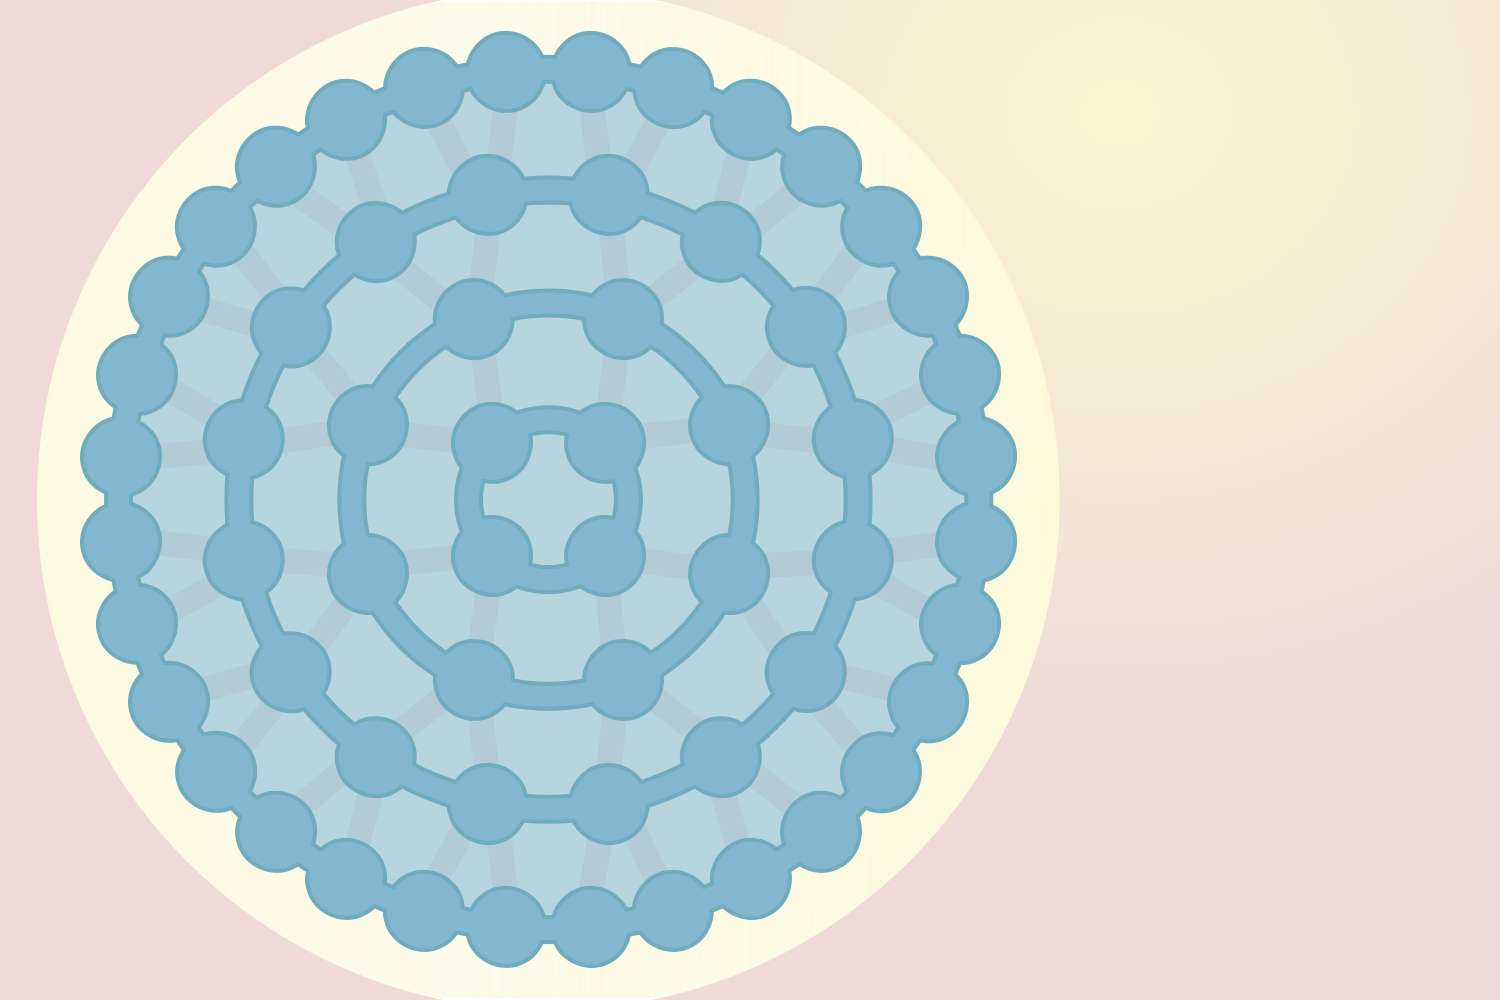
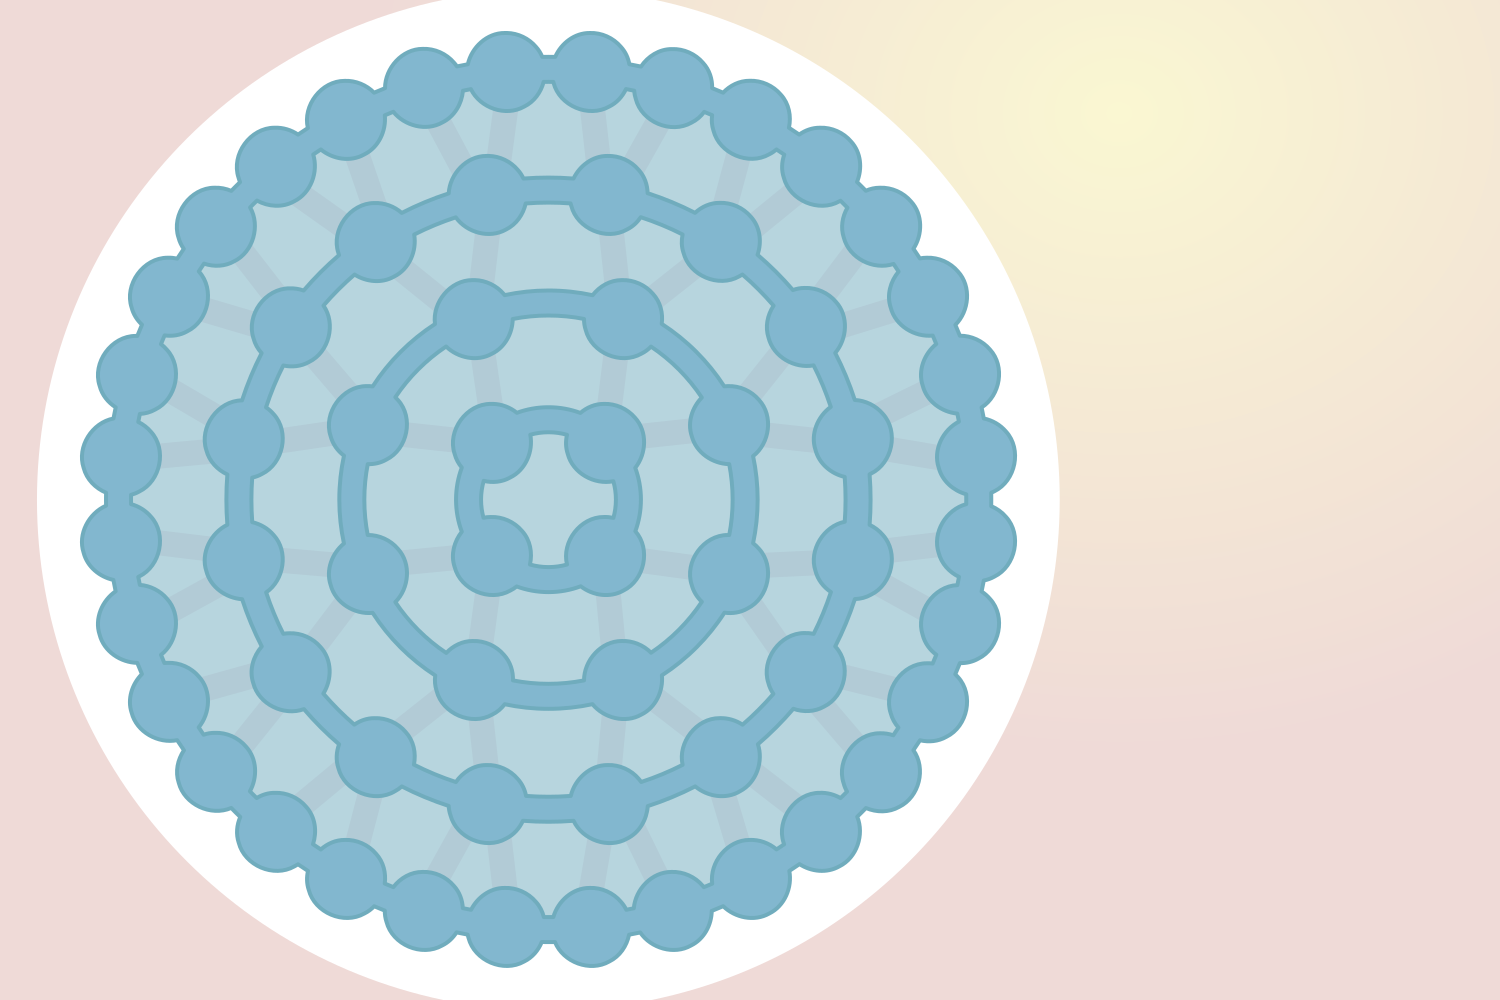
Improving light theme.

Changed region(s): [[0.368, 0.0, 0.7053, 1.0], [0.0, 0.031, 0.2453, 0.961]]

diff --git a/game.py b/game.py
@@ -63,13 +63,16 @@ class Stone(pygame.sprite.Sprite):
 
 class Score:
 
-    def __init__(self, font = None, size = 10, color = (0, 0, 0), bgcolor = (255, 255, 255)):
+    def __init__(self, font = None, size = 10, color = (0, 0, 0), bgcolor = None):
         fullname = os.path.join('fonts', font)
         self.font = pygame.font.Font(fullname, size)
         self.color = color
         self.bgcolor = bgcolor
         self.points = 0
-        self.score = self.font.render(str(self.points), True, self.color, self.bgcolor)
+        if bgcolor:
+            self.score = self.font.render(str(self.points), True, self.color, self.bgcolor)
+        else:
+            self.score = self.font.render(str(self.points), True, self.color)
         self.score = self.score.convert_alpha()
         self.scorepos = self.score.get_rect()
 
@@ -131,9 +134,9 @@ class Game:
         from menus import ListMenu, SwitchableListMenu, FlattenedMenu
 
         self.mm = ListMenu(('easy', 'normal', 'hard', 'options', 'help', 'credits'), sizes = (58, 63), align = 'center')
-        self.gm = SwitchableListMenu(('pause', 'options', 'quit'), sizes = (52, 58, 52), align = 'right', bg = colorScheme.GAMEBG)
-        self.rsm = ListMenu(('resume',), sizes = (52, 58), align = 'right', bg = colorScheme.GAMEBG)
-        self.govm = ListMenu((('new game', self.level), 'back'), sizes = (52, 58), align = 'right', bg = colorScheme.GAMEBG)
+        self.gm = SwitchableListMenu(('pause', 'options', 'quit'), sizes = (52, 58, 52), align = 'right')
+        self.rsm = ListMenu(('resume',), sizes = (52, 58), align = 'right')
+        self.govm = ListMenu((('new game', self.level), 'back'), sizes = (52, 58), align = 'right')
         self.optm = FlattenedMenu(({'Theme': ('light', 'dark')}, {'Sound': ('on', 'off')}, {'Music': ('on', 'off')}, 'back'), \
             sizes = (52, 58), align = 'center', bg = colorScheme.BACKGROUND, hpad = 20, vpad = 20)
         self.hm = ListMenu(('back',), sizes = (58, 63), align = 'center')
@@ -383,7 +386,7 @@ class Game:
         self.fill_rings(self.game.middle, self.middle_ring)
         self.fill_rings(self.game.inner, self.inner_ring)
 
-        self.score = Score('Multicolore.otf', 106, colorScheme.SCORE, colorScheme.GAMEBG)
+        self.score = Score('Multicolore.otf', 106, colorScheme.SCORE)
         self.score.updateScore(self.game.points)
 
         if self.music: self.track.play(-1)

diff --git a/menus.py b/menus.py
@@ -18,7 +18,7 @@ from utils import write
 
 class ListMenu:
 
-    def __init__(self, opt, align = 'left', font = 'Multicolore.otf', sizes = (10, 10), bg = colorScheme.BACKGROUND, hpad = 0, vpad = 0):
+    def __init__(self, opt, align = 'left', font = 'Multicolore.otf', sizes = (10, 10), bg = None, hpad = 0, vpad = 0):
         self.options = opt
         self.selected = 0
         self.align = str(align)
@@ -69,8 +69,11 @@ class ListMenu:
     def assemble(self):
         self.prepare()
         dispBy = 0
-        self.menuFrame = pygame.Surface((self.menuWidth, self.menuHeight)).convert()
-        self.menuFrame.fill(self.bg)
+        self.menuFrame = pygame.Surface((self.menuWidth, self.menuHeight)).convert_alpha()
+        if self.bg:
+            self.menuFrame.fill(self.bg)
+        else:
+            self.menuFrame.fill((0, 0, 0, 0))
         for item in self.toPrint:
             if self.align == 'center':
                 item[1].centerx = self.menuFrame.get_rect().centerx

diff --git a/utils.py b/utils.py
@@ -92,9 +92,9 @@ stones = StoneColors()
 class Colors:
 
     def __init__(self):
-        self.light = {'bgimg': 'bg_light.png', 'bg': '#F8C18D', 'gbg': (246,175,108), \
+        self.light = {'bgimg': 'bg_light.png', 'bg': '#FFFFFF', 'gbg': (246,175,108), \
             'tt': (11, 181, 255), 'mn': (76, 152, 193), 'mna': (37, 94, 118), \
-            'mni': (11, 26, 30), 'mns': '#F5A65C', 'mno': (245, 166, 92), 'omt': '#9C3025', 'sc': (9, 21, 26), \
+            'mni': (11, 26, 30), 'mns': '#E8C7C4', 'mno': (245, 166, 92), 'omt': '#9C3025', 'sc': (9, 21, 26), \
             'mnw': (27, 65, 75), 'go': (251, 219, 189)}
         self.dark = {'bgimg': 'bg_light.png', 'bg': (0, 7, 10), 'gbg': (246,175,108), \
             'tt': (94, 29, 22), 'mn': (76, 152, 193), 'mna': (37, 94, 118), \
